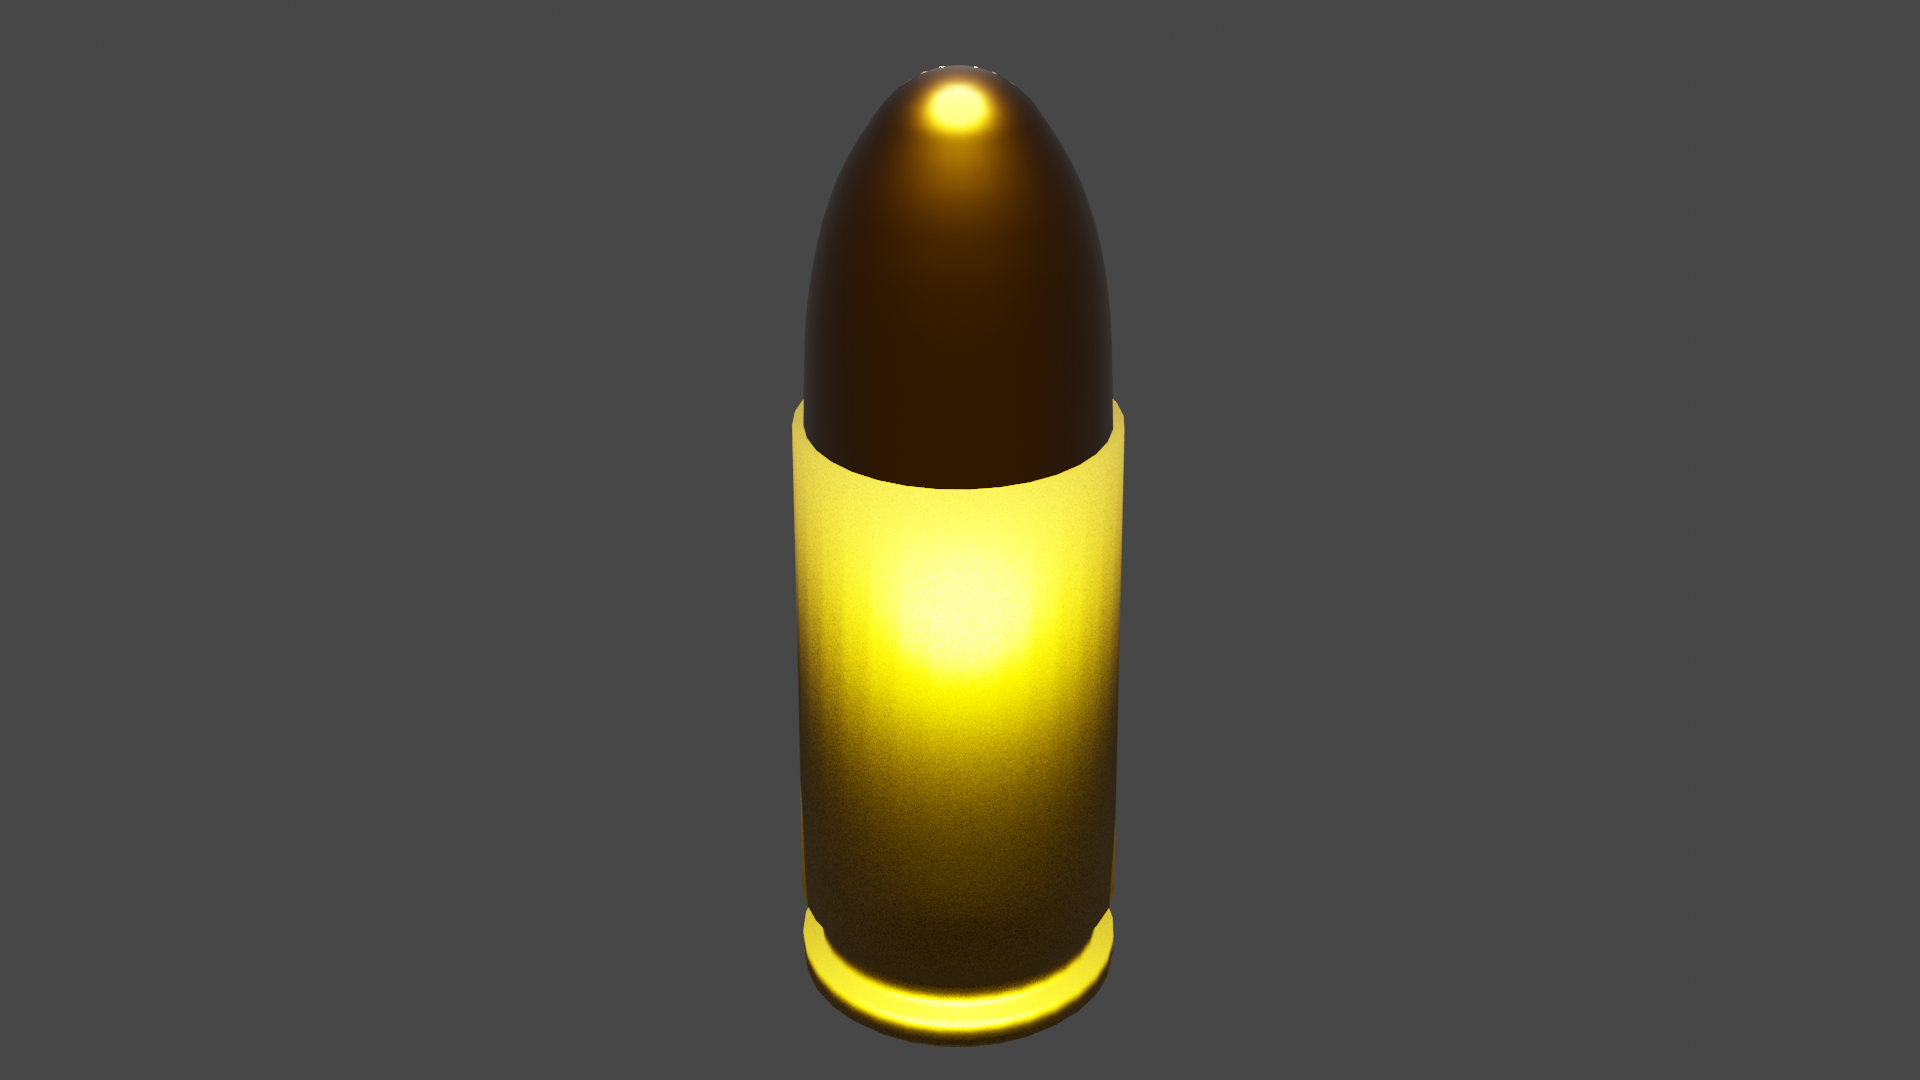
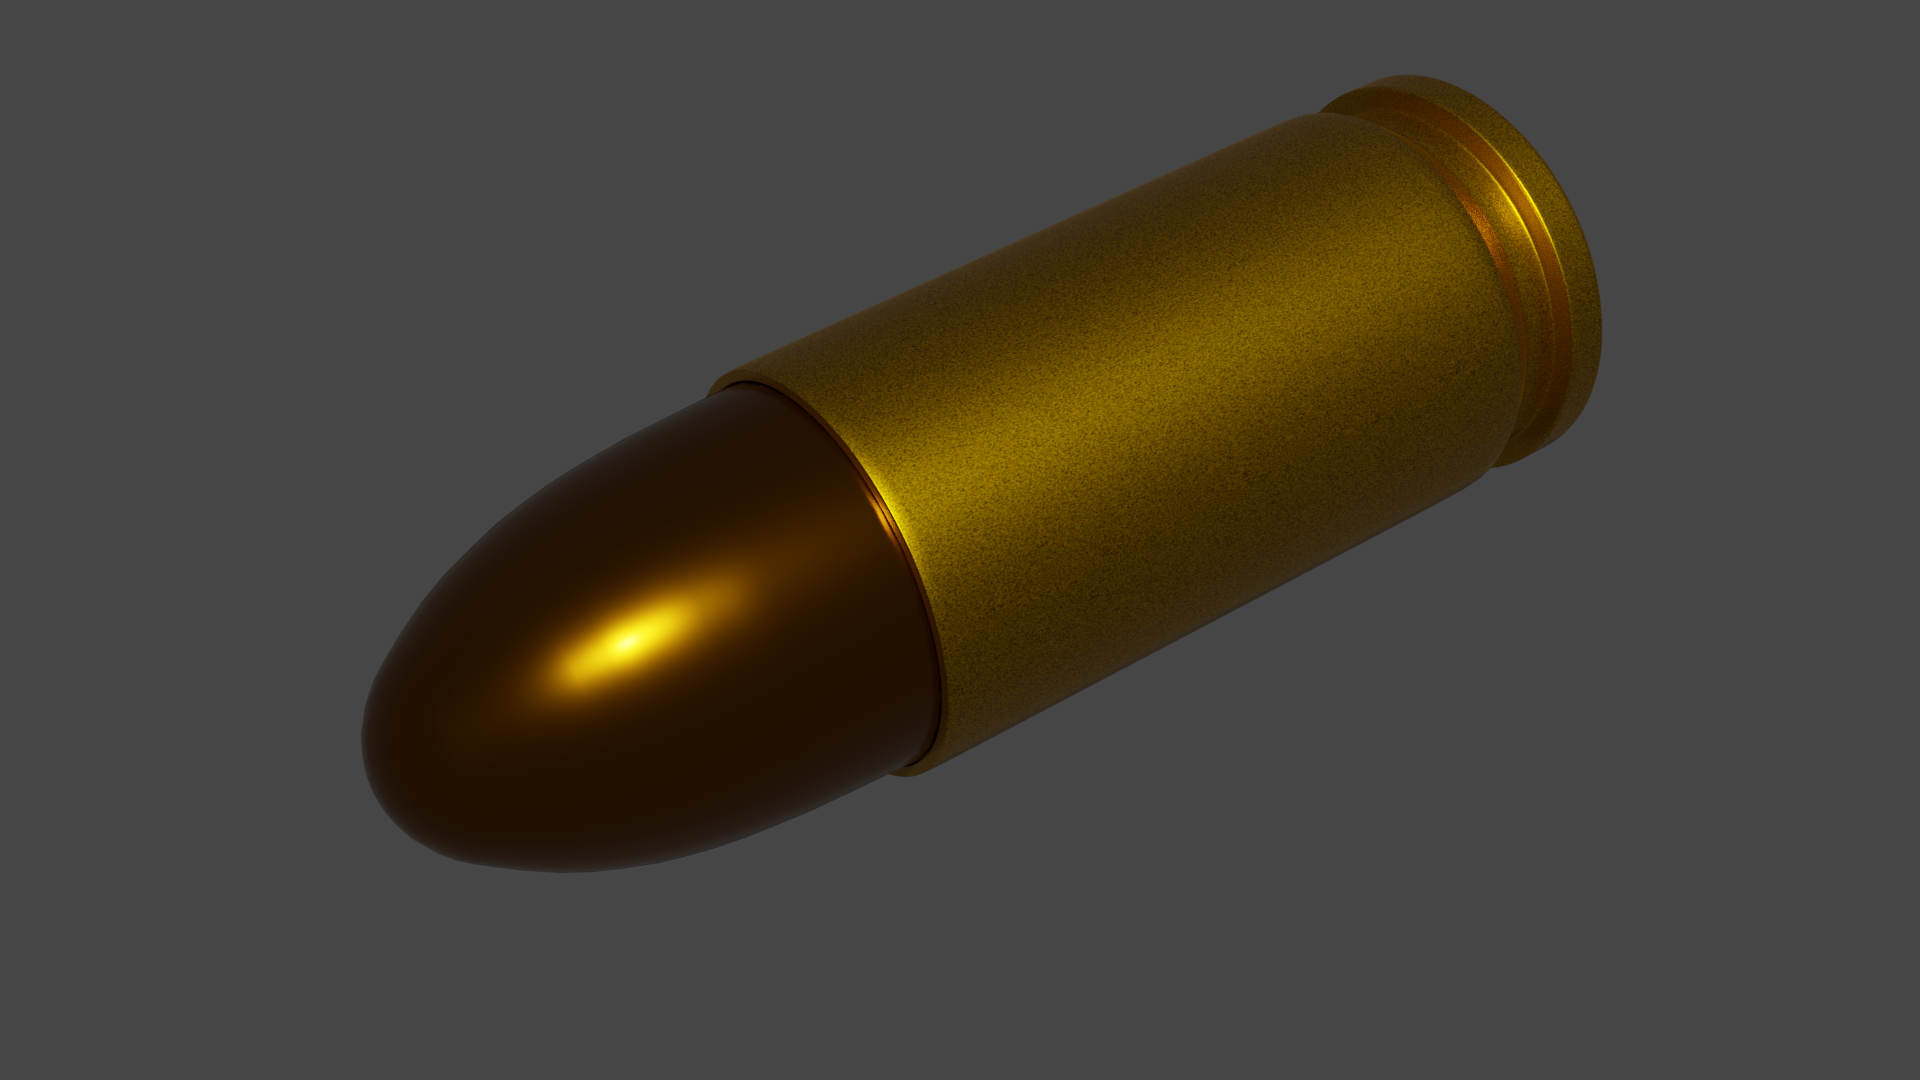
動画の追加、および薬莢の差し替え

Changed region(s): [[0.1875, 0.0611, 0.8438, 0.9778]]

diff --git a/portfolio/index_2nd/index01.html b/portfolio/index_2nd/index01.html
@@ -92,6 +92,14 @@
             <p class="p2">監修 カメラ 撮影協力 制作協力　を担当</p>
             <iframe width="966" height="543" src="https://www.youtube.com/embed/RBcXkIaMakE" frameborder="0" allow="accelerometer; autoplay; clipboard-write; encrypted-media; gyroscope; picture-in-picture" allowfullscreen></iframe>
         </section>
+        <section>
+            <p class="p1">After Effects　で制作</p>
+            <iframe width="950" height="534" src="https://www.youtube.com/embed/QKd7_Y9WfPQ" title="YouTube video player" frameborder="0" allow="accelerometer; autoplay; clipboard-write; encrypted-media; gyroscope; picture-in-picture" allowfullscreen></iframe>
+        </section>
+        <section>
+            <p class="p1">メディア情報研究会</p>
+            <iframe width="950" height="534" src="https://www.youtube.com/embed/bi5O4vezG_k" title="YouTube video player" frameborder="0" allow="accelerometer; autoplay; clipboard-write; encrypted-media; gyroscope; picture-in-picture" allowfullscreen></iframe>
+        </section>
     </main>
 </body>
 </html>
